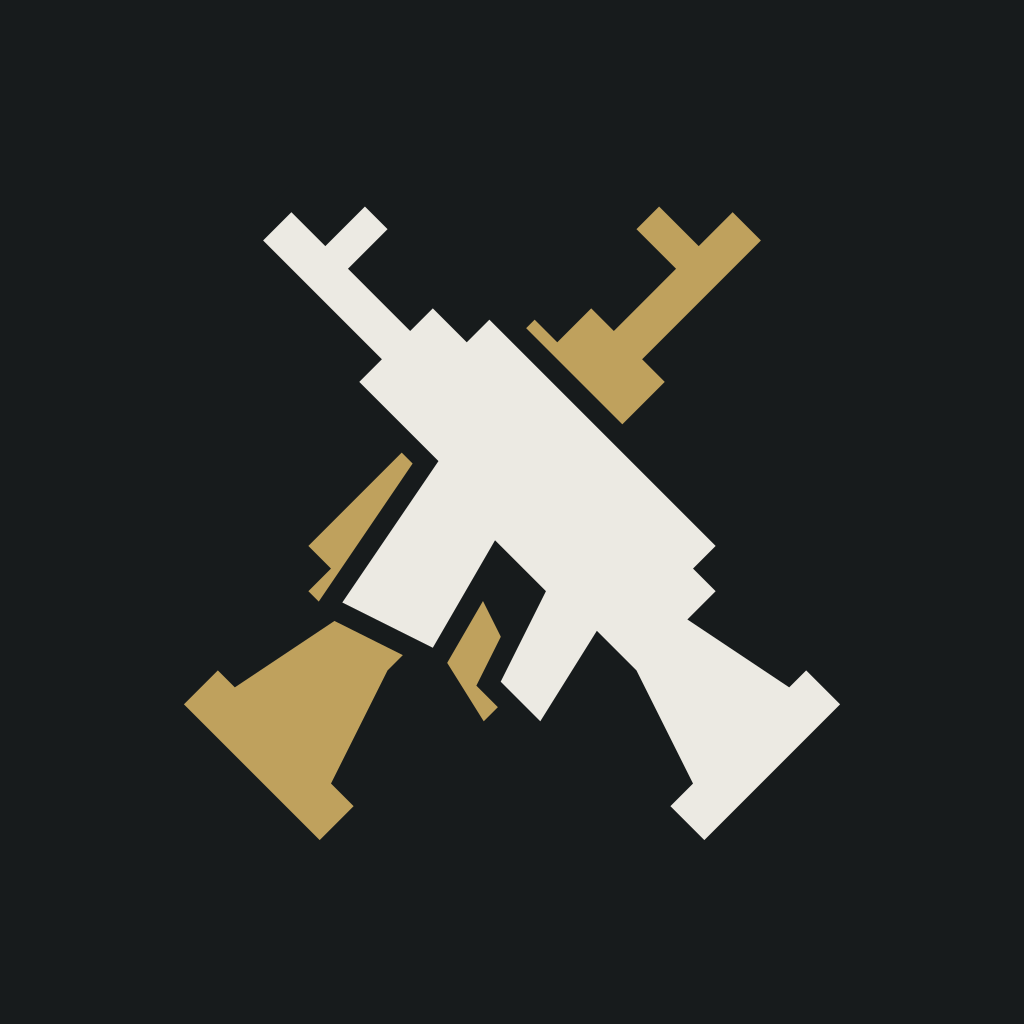
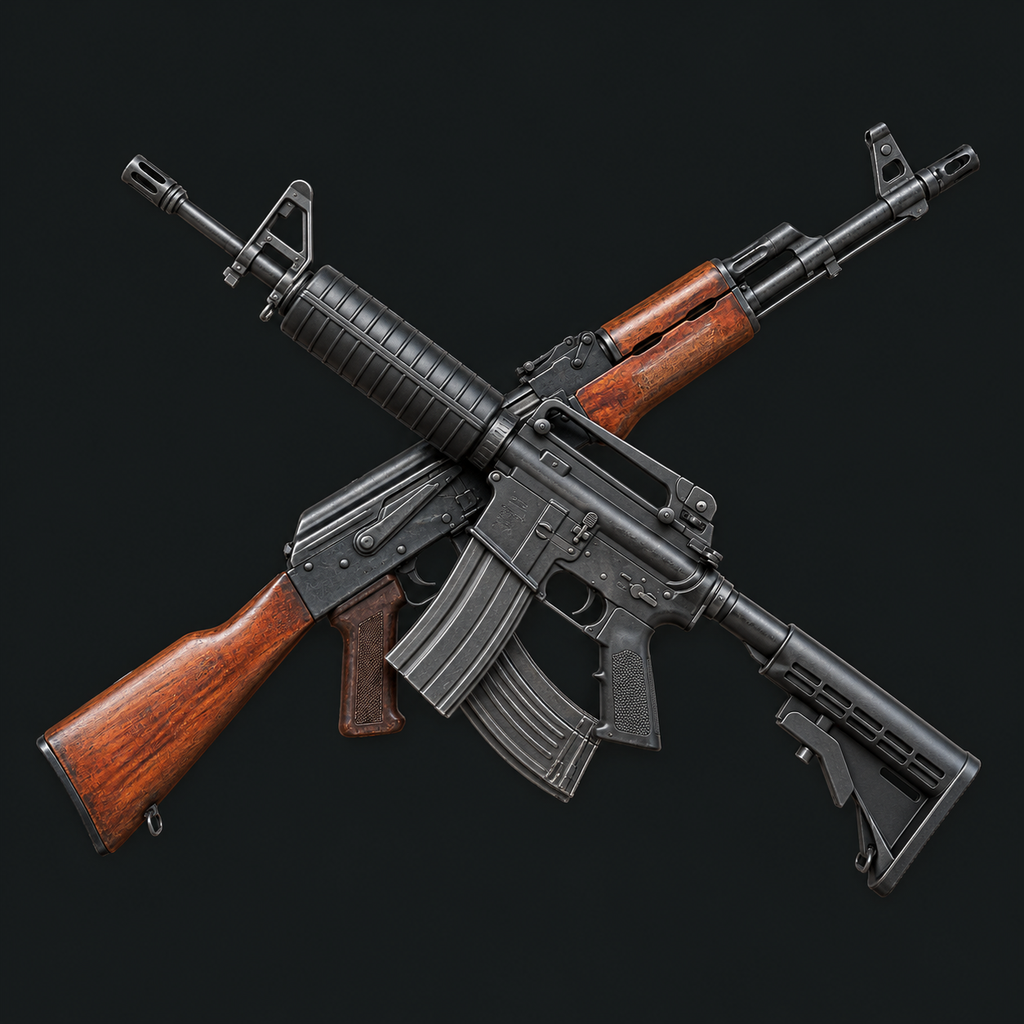
Replace vector thumbnail with realistic crossed AK and M4 artwork
Use a generated raster illustration to make both rifle forms recognizable. Preserve the previous thumbnail set in an archive and record the generation prompt and image hashes.

Changed region(s): [[0.0312, 0.125, 0.9688, 0.875], [0.9375, 0.125, 0.9688, 0.1562]]

diff --git a/THIRD-PARTY-NOTICES.md b/THIRD-PARTY-NOTICES.md
@@ -122,8 +122,15 @@ See the [artwork notice](ArenaMode.Client/Assets/Ui/NOTICE.md),
 [full MIT text](ArenaMode.Client/Assets/Ui/MIT-LICENSE.txt) and
 [generation records](tools/ArenaUiArtwork/renders/PROMPTS.json).
 
+The project thumbnail is a generated photorealistic illustration of crossed AK
+and M4 rifles made with OpenAI's image tool, using the project's earlier
+thumbnail and generated assault-rifle artwork as references. It is not a
+photograph or an extracted game asset. The [generation record](docs/THUMBNAIL-20261018.json)
+contains the prompt and source/export hashes. It is offered under the project
+MIT license to the extent copyright or related rights apply to the contributors' work.
+
 The remaining original HUD graphics (excluding the two credited equipment
-icons), the project thumbnail, procedural Molotov bottle, fire textures and
+icons), procedural Molotov bottle, fire textures and
 synthesized fire sounds are ArenaMode work, likewise offered under the project
 MIT license to the extent copyright or related rights apply. Native game hand rigs,
 animations and prefab references are used from the installed game, not offered
